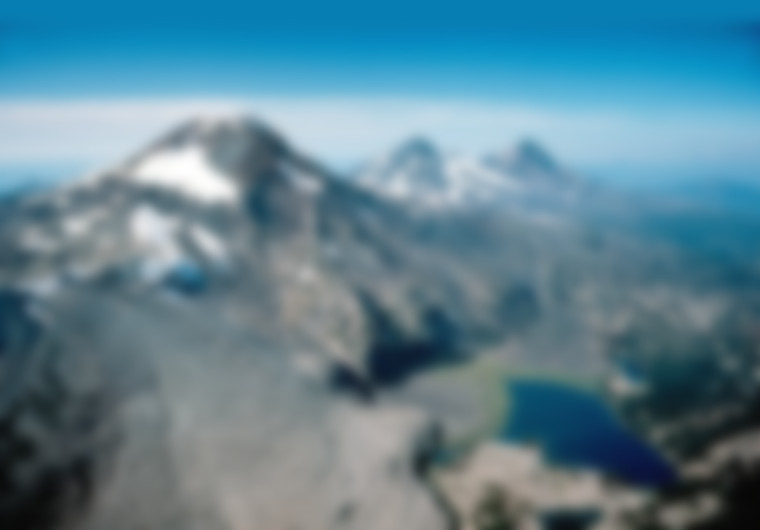
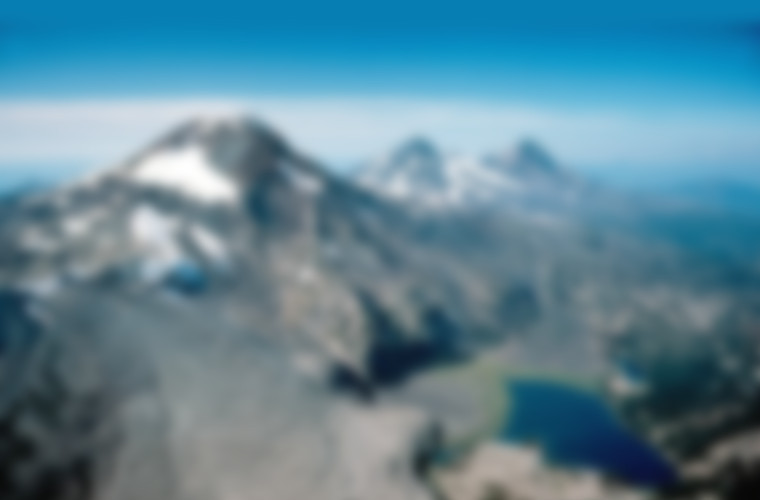
shrink the height by 30px, use a viewport to maximize size on ipad

diff --git a/index.html b/index.html
@@ -2,8 +2,17 @@
 <html>
   <head>
     <title>Triple Peaks</title>
+    <meta name="viewport" content="width=760">
+    <script src="http://code.jquery.com/jquery-1.10.1.min.js"></script>
+    <script src="cards.js" type="text/javascript"></script>
+    <script src="triple_peaks.js" type="text/javascript"></script>
+    <link rel="stylesheet" type="text/css" href="cards.css"/>
+    <link rel="stylesheet" type="text/css" href="triple_peaks.css"/>
   </head>
-  <body style="padding: 0; margin: 0;">
-    <iframe src="game.html" width="760" height="530" scrolling="no"/>
+  <body>
+    <script type="text/javascript">
+        var game = new Game();
+        game.start();
+    </script>
   </body>
 </html>

diff --git a/triple_peaks.js b/triple_peaks.js
@@ -485,7 +485,7 @@ var Game = (function (win) {
             .append($('<div>')
                     .addClass('score_box')
                     .css('position', 'absolute')
-                    .css('top', '500px')
+                    .css('top', '470px')
                     .append($('<div>')
                             .addClass('high_streak')
                             .append(this.$high_streak))

diff --git a/triple_peaks.css b/triple_peaks.css
@@ -51,7 +51,7 @@ body {
     top: 0px;
     left: 0px;
     width: 760px;
-    height: 528px;
+    height: 498px;
     z-index: 10;
 }
 
